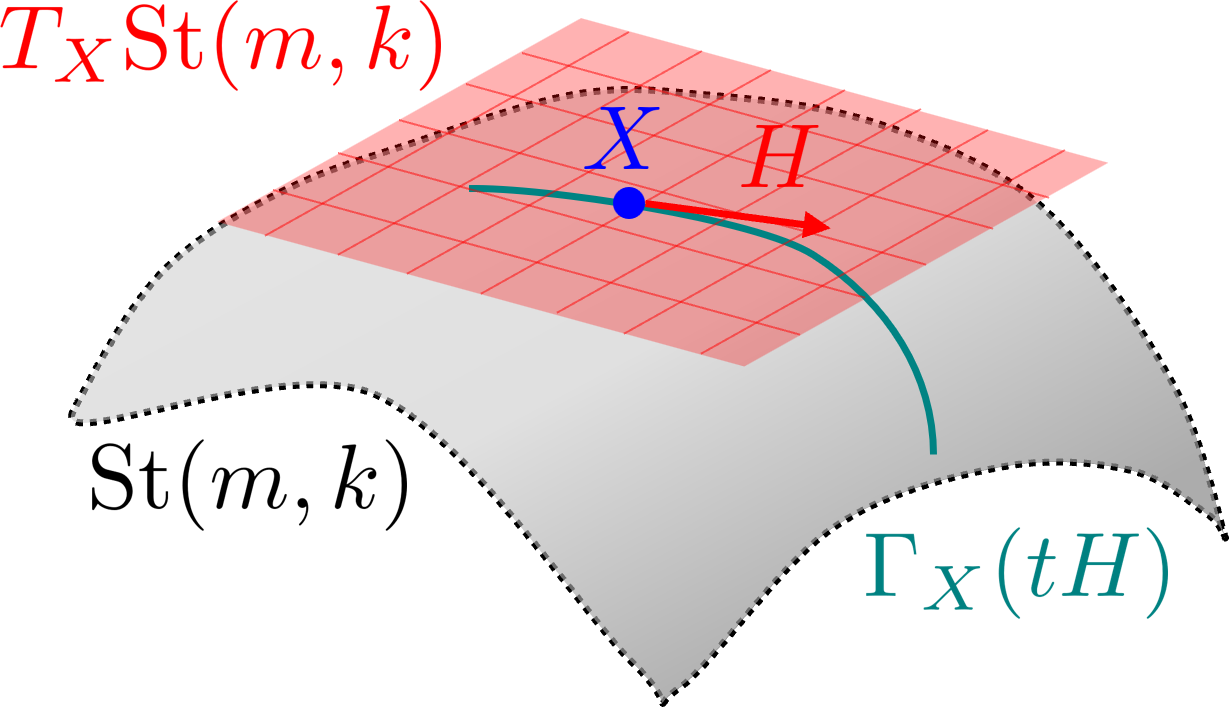
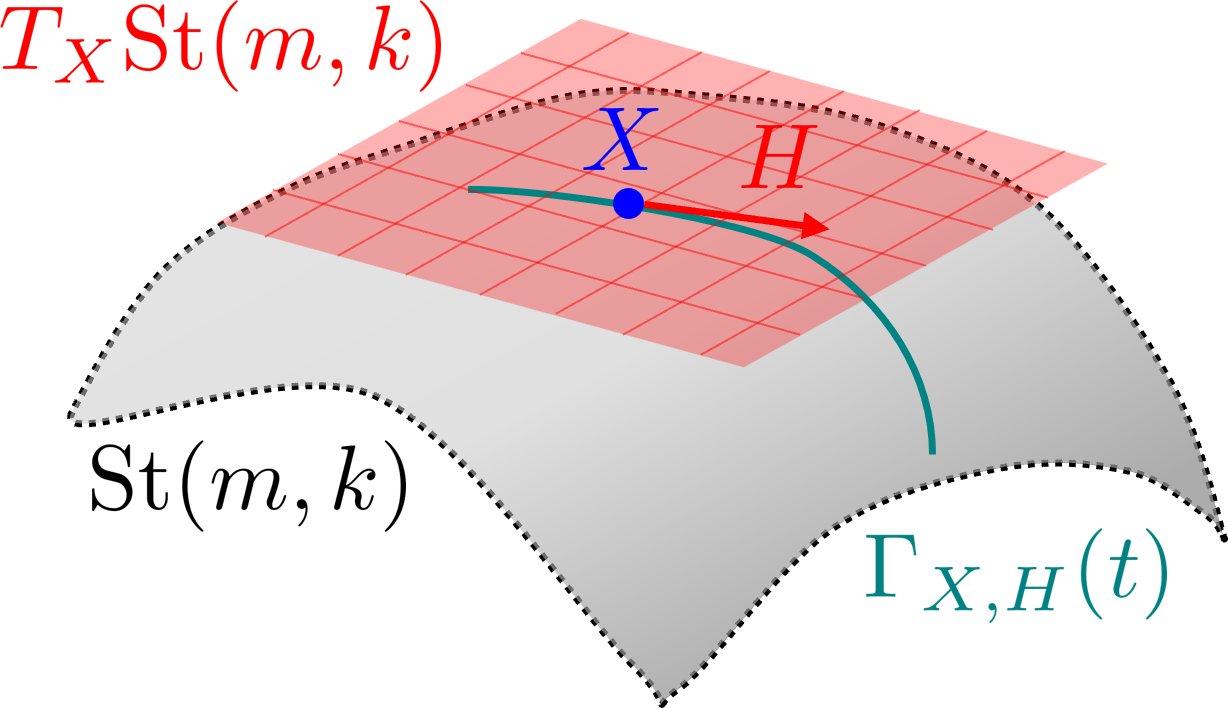
change geodesic notation

diff --git a/_posts/2025-08-24-blog-post.md b/_posts/2025-08-24-blog-post.md
@@ -126,7 +126,7 @@ $$
 It should be noted that unlike in differential geometry, we like to express our equations under an extrinsic coordinate (\\(\mathbb{R}^{m \times k}\\)) when analyzing the geometry of a matrix manifold. The expressions beomce clean and coordinate-free.
 
 # Solving the geodesic equation
-Let us solve the geodesic equation! Instead of just giving you the answer and spoiling the fun, we will derive the solution from the geodesic equation step by step. Let us first state our initial conditions: we will be deriving a geodesic \\(\Gamma_X(tH)\\) (abbreviated as \\(\Gamma\\))emanating from \\(X \in \mathrm{St}(m,k)\\) in the direction of \\(H \in T_X \mathrm{St}(m,k)\\).
+Let us solve the geodesic equation! Instead of just giving you the answer and spoiling the fun, we will derive the solution from the geodesic equation step by step. Let us first state our initial conditions: we will be deriving a geodesic \\(\Gamma_{X,H}(t)\\) (abbreviated as \\(\Gamma\\))emanating from \\(X \in \mathrm{St}(m,k)\\) in the direction of \\(H \in T_X \mathrm{St}(m,k)\\). For an illustration, see the figure at the top of the post.
 
 ## The solution in the paper
 Within the paper, they solved the geodesic equations by noticing the invariants of motion. The two invariants are
@@ -196,7 +196,7 @@ Thus, we have identified the geodesic to be
 <p>
 $$
 \boxed{\begin{equation*}
-	\Gamma_X(tH) = \left[\begin{matrix}
+	\Gamma_{X,H}(t) = \left[\begin{matrix}
 		X & H
 	\end{matrix}\right] \cdot \exp\left(t \left[\begin{matrix}
 		X^{\mathsf{T}}H & -H^{\mathsf{T}}H \\
